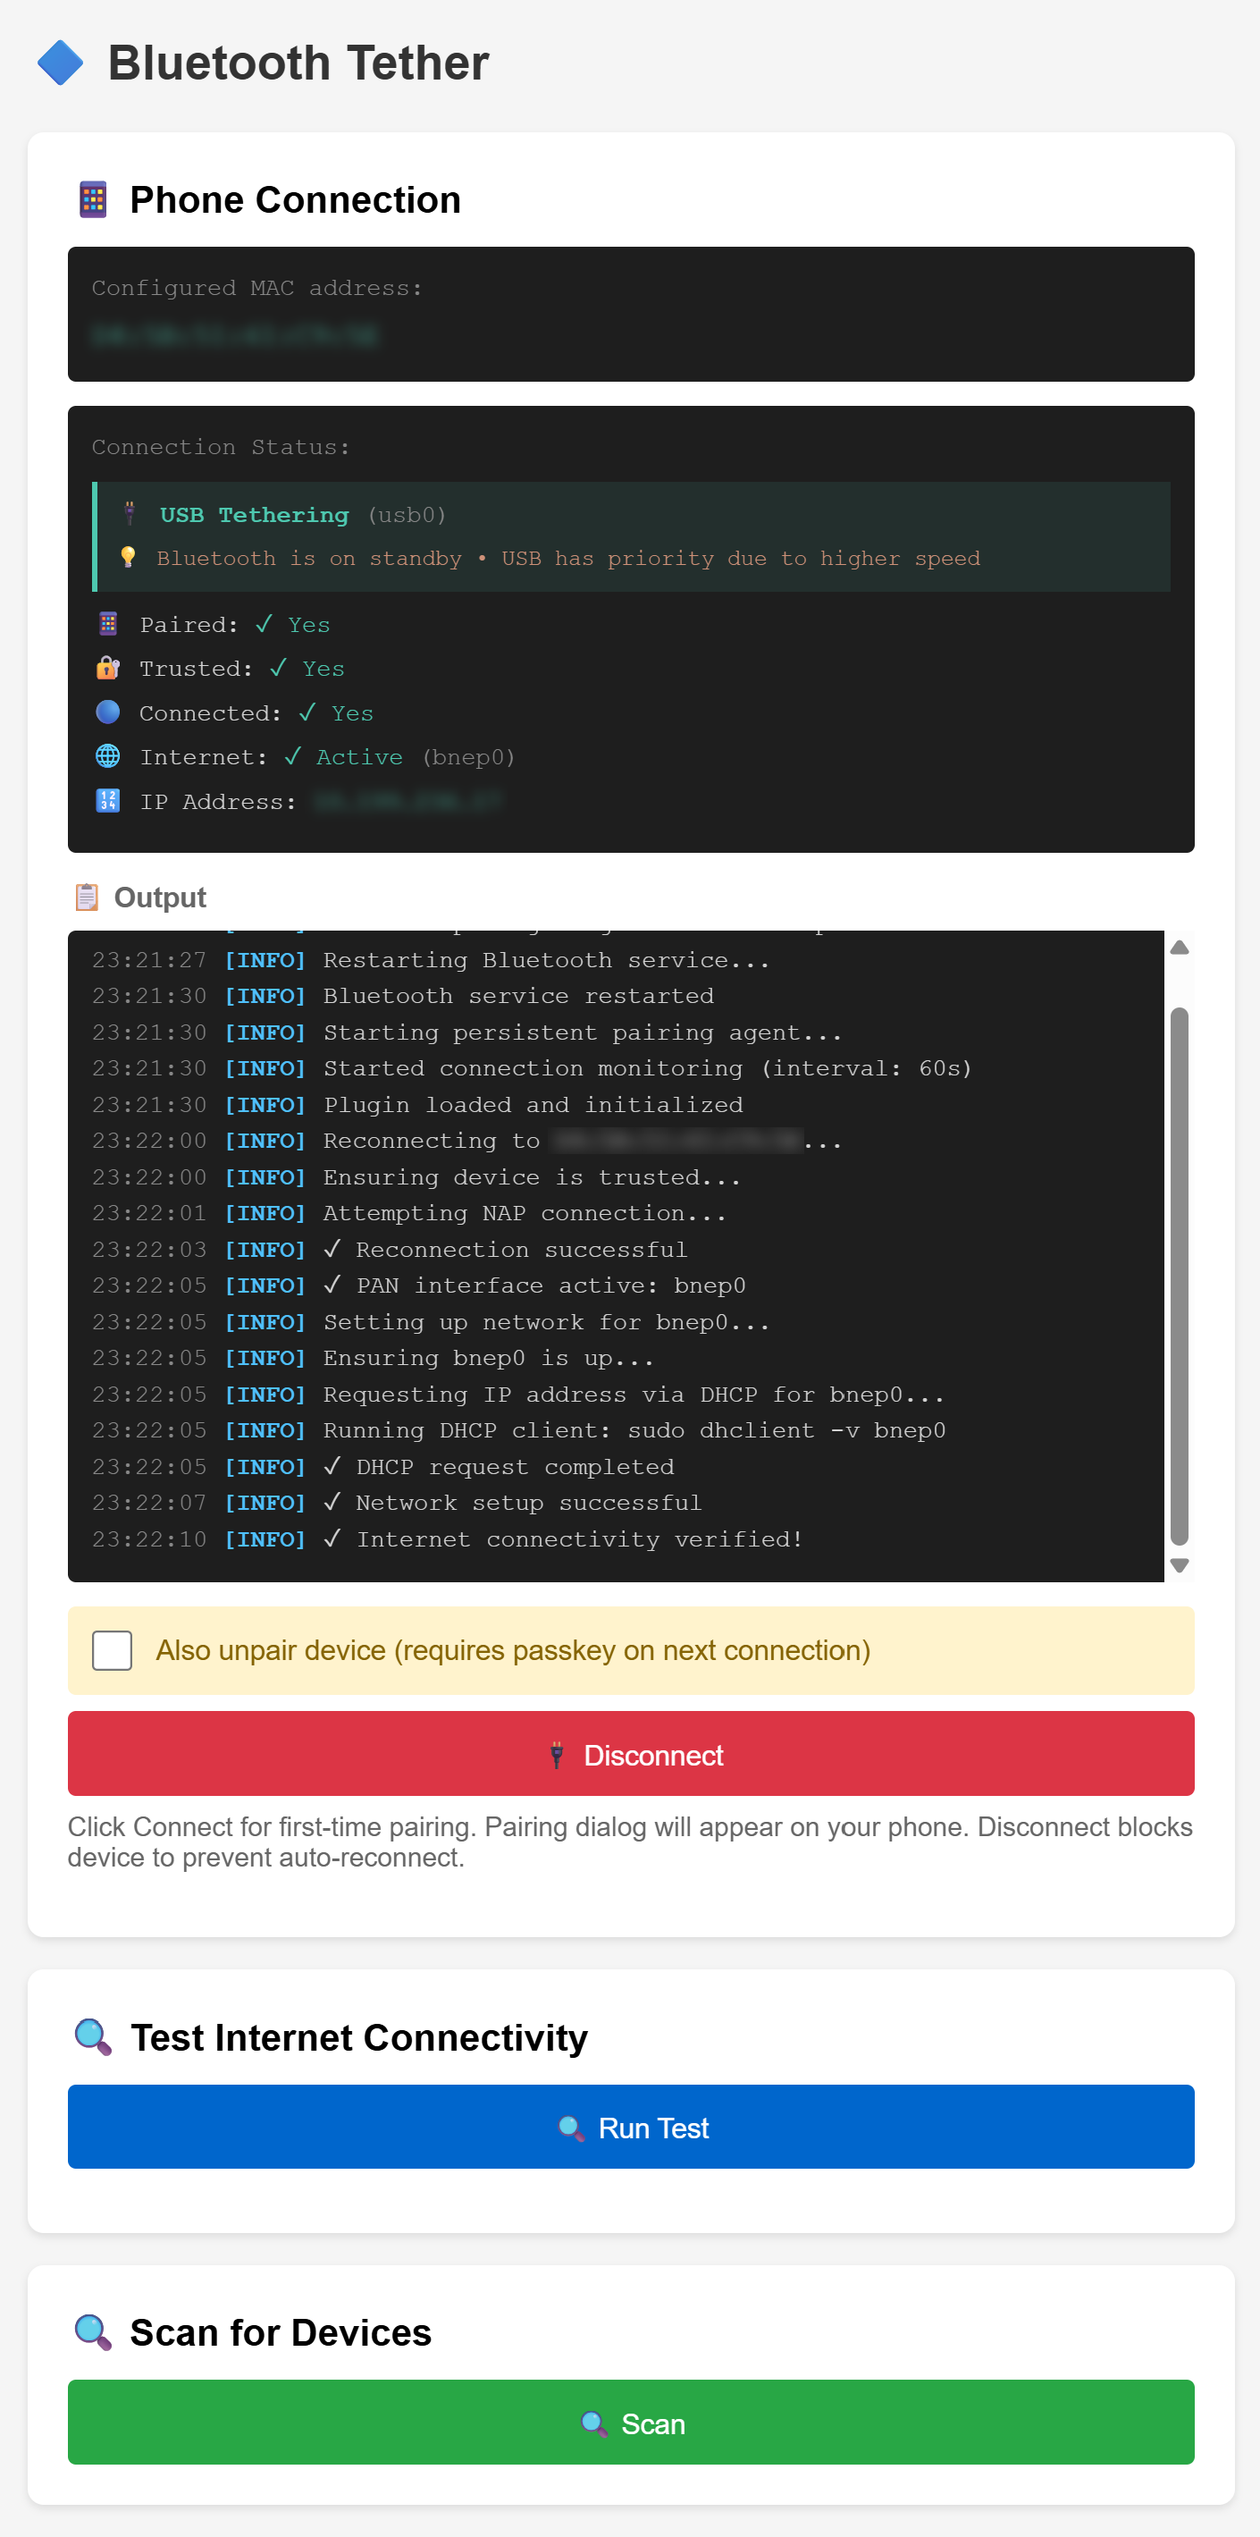
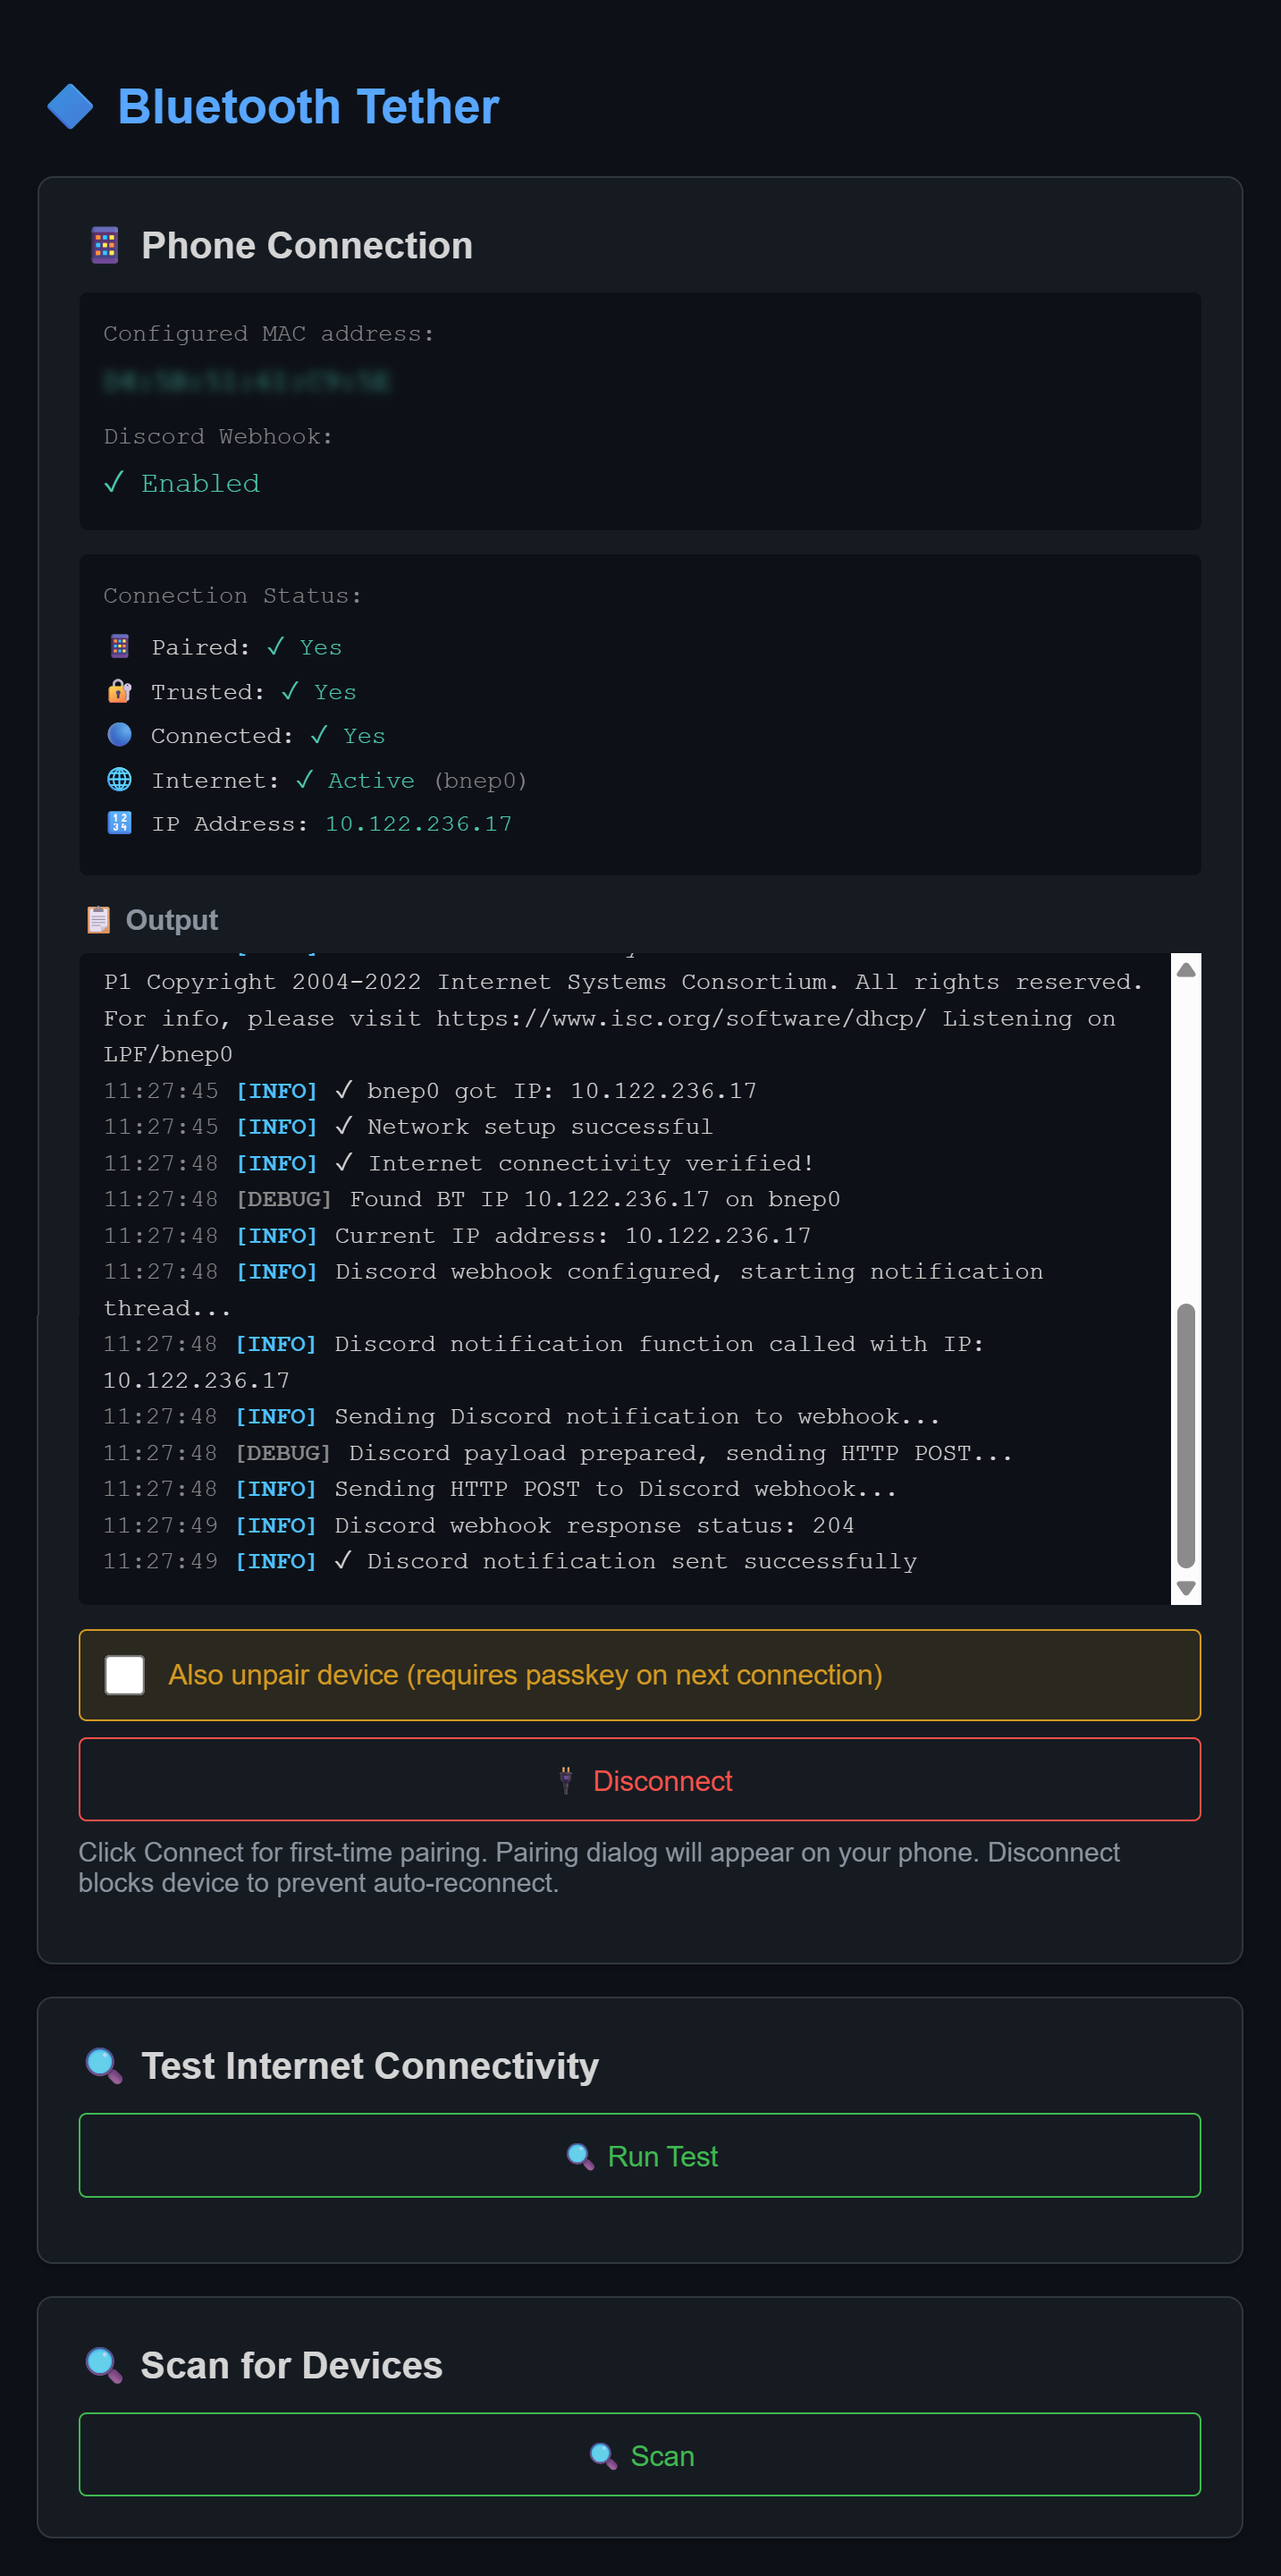
output added to ui + update images + updated readme

diff --git a/bt-tether-helper.py b/bt-tether-helper.py
@@ -113,6 +113,8 @@ HTML_TEMPLATE = """<!DOCTYPE html>
       <div style="background: #0d1117; color: #d4d4d4; padding: 12px; border-radius: 4px; margin-bottom: 12px; font-family: 'Courier New', monospace; font-size: 12px; line-height: 1.5;">
         <div style="color: #888; margin-bottom: 4px;">Configured MAC address:</div>
         <div style="color: #4ec9b0; font-size: 14px;">{{ mac if mac else 'Not configured' }}</div>
+        <div style="color: #888; margin-bottom: 4px; margin-top: 8px;">Discord Webhook:</div>
+        <div style="color: {% if discord_webhook_url %}#4ec9b0{% else %}#f48771{% endif %}; font-size: 14px;">{% if discord_webhook_url %}✓ Enabled{% else %}✗ Disabled{% endif %}</div>
       </div>
       
       <!-- Status in output style -->
@@ -717,7 +719,7 @@ HTML_TEMPLATE = """<!DOCTYPE html>
 
 class BTTetherHelper(Plugin):
     __author__ = "wsvdmeer"
-    __version__ = "1.1.1"
+    __version__ = "1.1.2"
     __license__ = "GPL3"
     __description__ = "Guided Bluetooth tethering with user instructions"
 
@@ -1622,6 +1624,7 @@ default-agent
                         mac=self.phone_mac,
                         status=self.status,
                         message=self.message,
+                        discord_webhook_url=self.discord_webhook_url,
                     )
 
             if clean_path == "connect":

diff --git a/bt-tether-helper/README.md b/bt-tether-helper/README.md
@@ -12,6 +12,8 @@ A comprehensive Bluetooth tethering plugin that provides guided setup and automa
 
 ![bt-tether-helper Web Interface](ui.png)
 
+![bt-tether-helper Screen Interface](screen.png)
+
 ## Tested Hardware Configuration
 
 **Development & Testing:**
